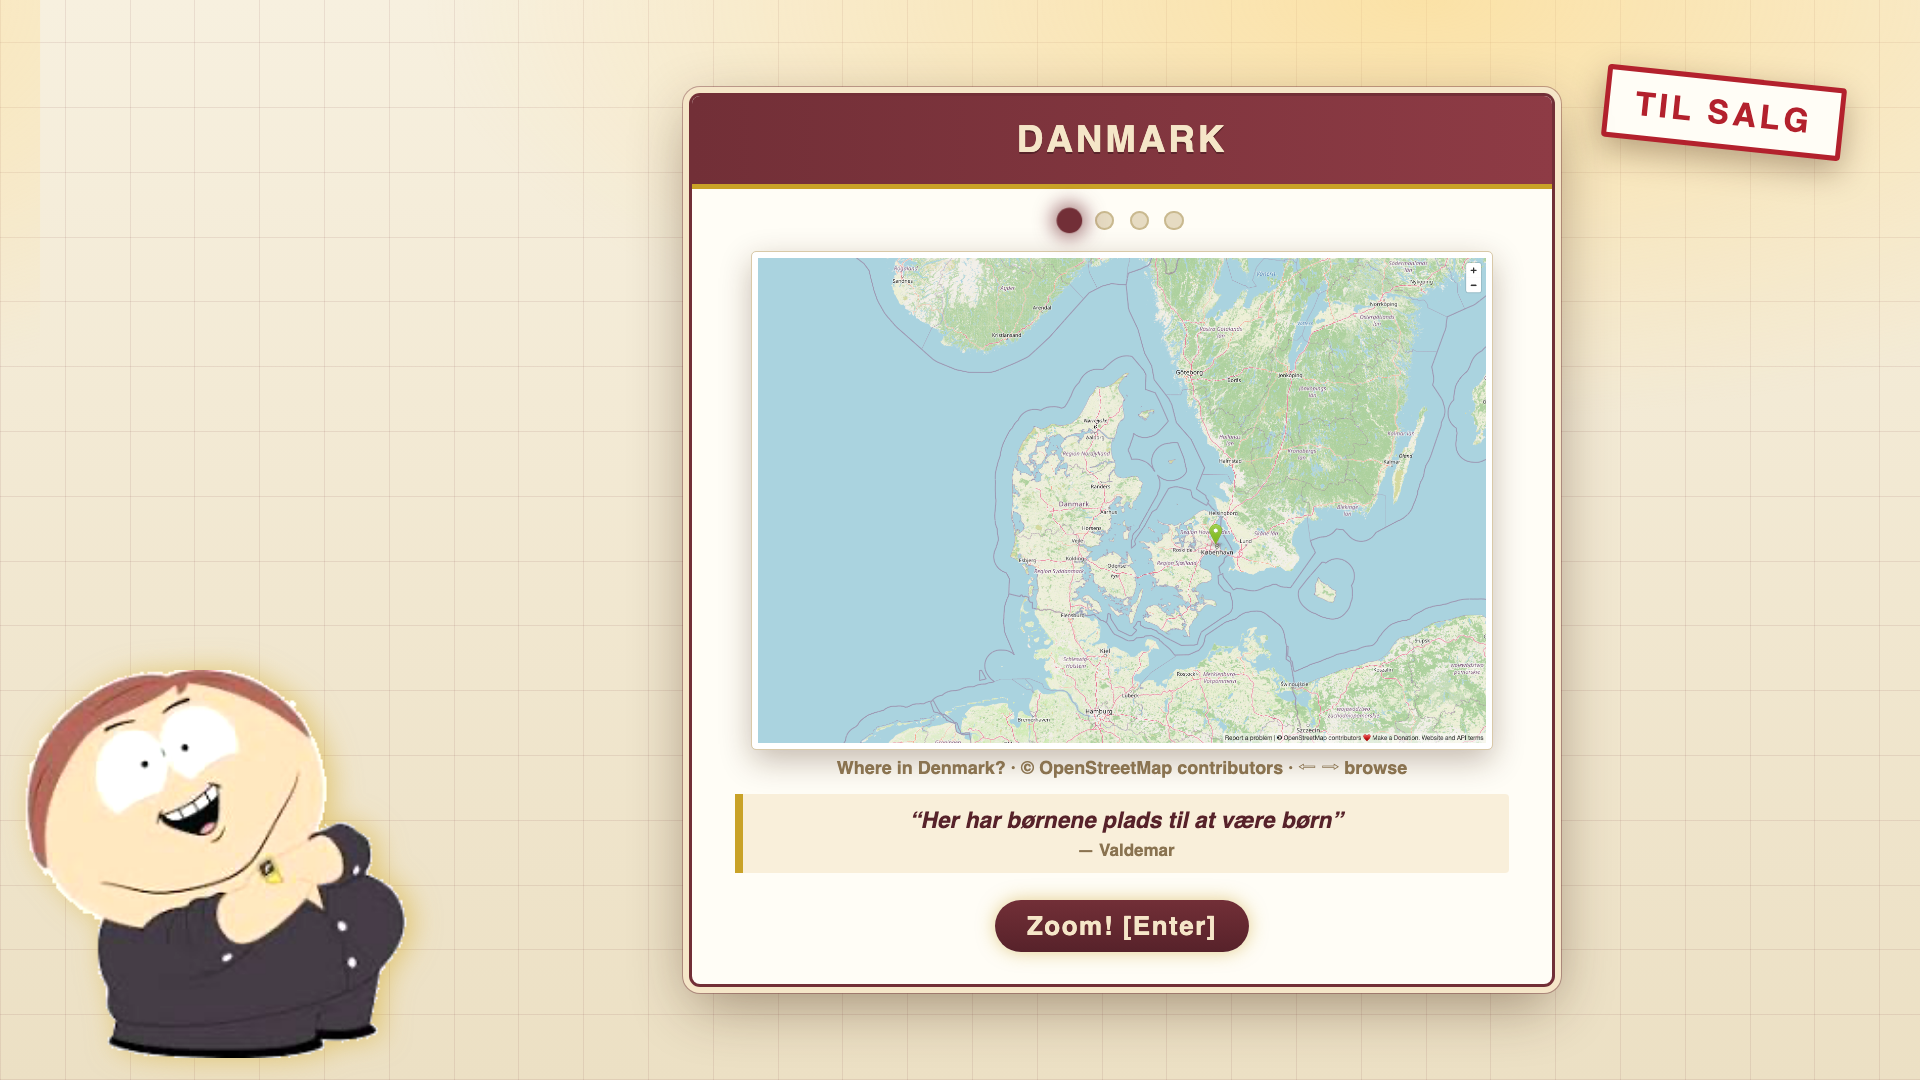
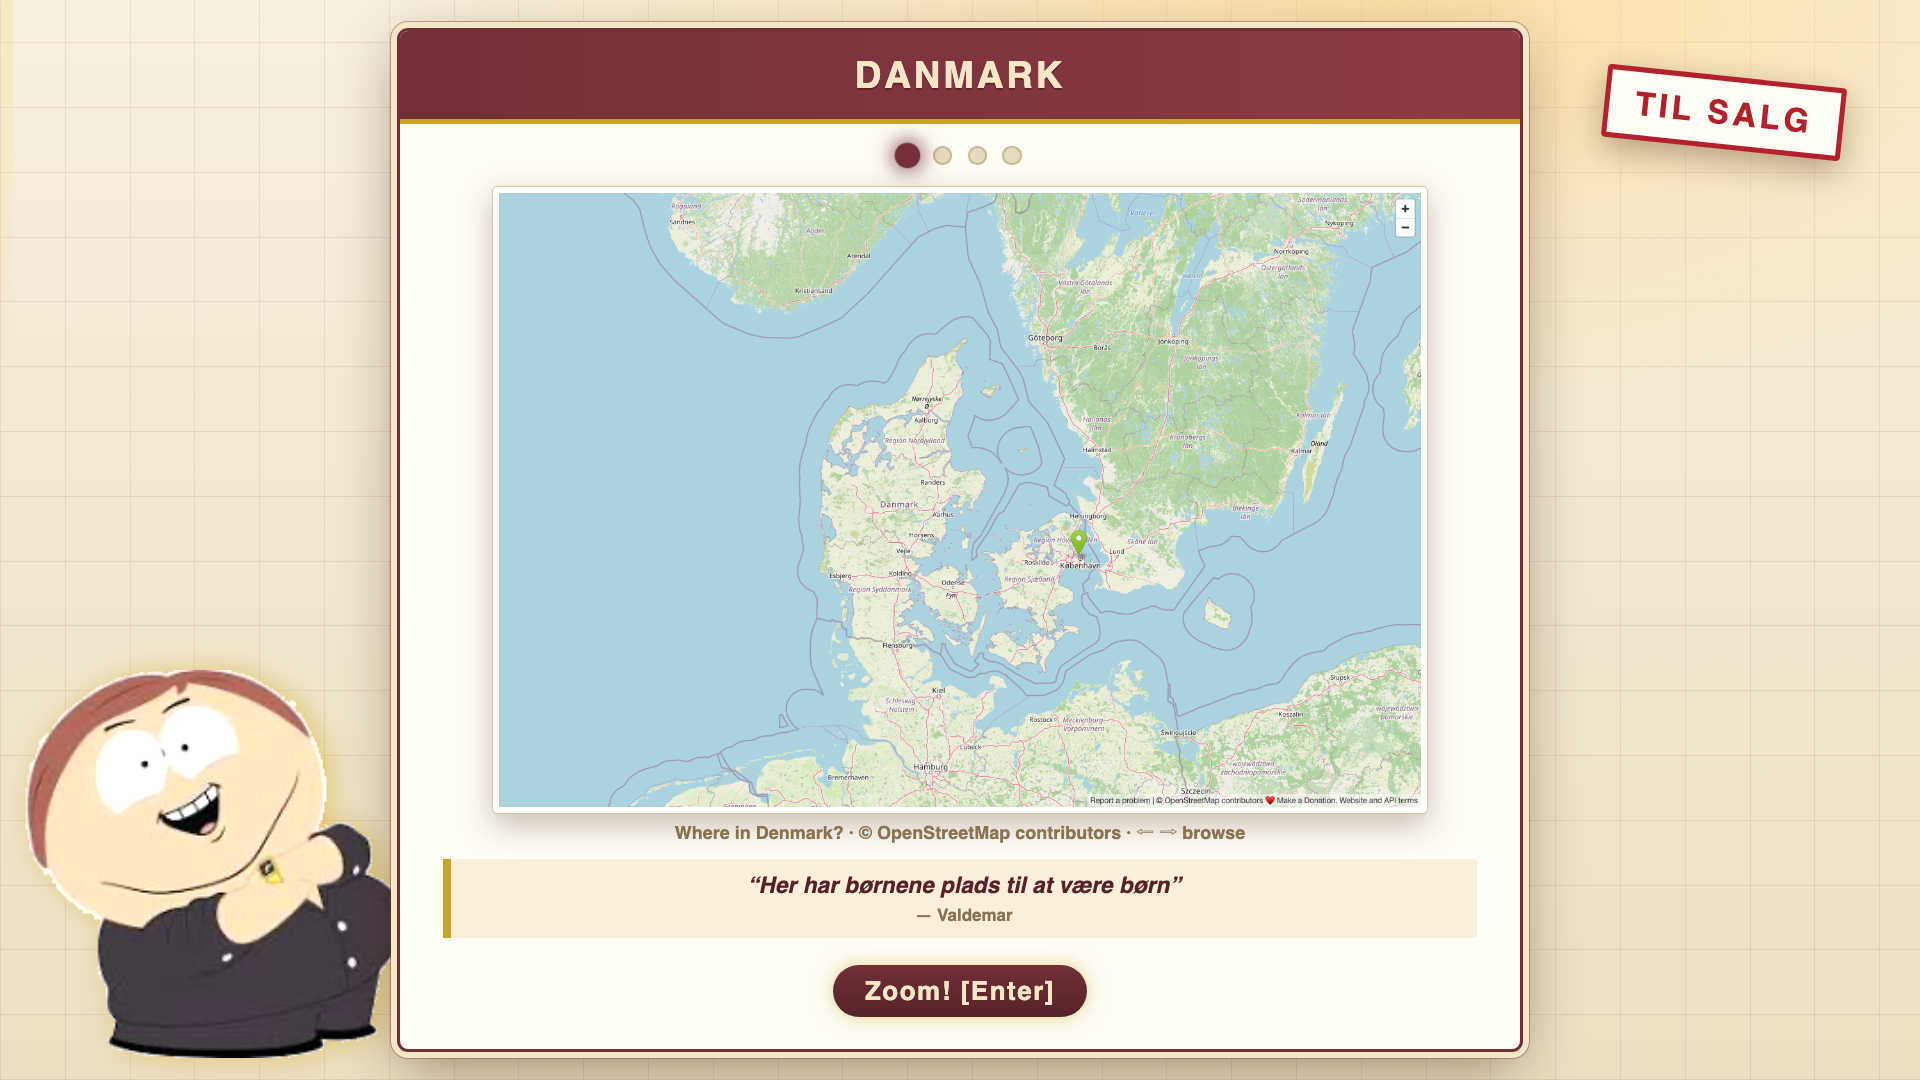
Let the two maps fill the screen.
The maps were capped like the photos and came out postcard-sized — but
street and town names ARE the guessing clue, so a box holding a map now
goes wide (via :has) and the map itself may stand 58vmin tall. Photos
keep the narrow prospekt box. Verified at 1920×1080: nothing clips.

diff --git a/js/tents/weinzelt/weinzelt.js b/js/tents/weinzelt/weinzelt.js
@@ -105,8 +105,8 @@ CHALLENGES.weinzelt = {
     // placeholder instead of a broken-image icon, and Enter still works.
     // NOTE: these paths are relative to index.html (they go into <img src>),
     // NOT to this file — unlike the url() in weinzelt.css. Don't "fix" it.
-    function photoHtml(dir, file, caption) {
-      return '<img class="visning-photo" src="' + dir + file + '" alt="">'
+    function photoHtml(dir, file, caption, extra) {
+      return '<img class="visning-photo' + (extra ? ' ' + extra : '') + '" src="' + dir + file + '" alt="">'
         + '<div class="visning-caption">' + caption + ' · ⇦ ⇨ browse</div>';
     }
     function armPhotoFallback(dir) {
@@ -175,27 +175,30 @@ CHALLENGES.weinzelt = {
       //    Enter walks forward too, and off the last page it starts the guess.
       function showGallery(p) {
         const last = b.photos.length + 1;
-        let title, file, caption, patter, confirmText;
+        let title, file, caption, patter, confirmText, extra;
         if (p < b.photos.length) {
           title = 'FOTO ' + (p + 1) + '/' + b.photos.length;
           file = b.photos[p];
           caption = 'Foto ' + (p + 1) + '/' + b.photos.length + ' · ' + b.address;
           patter = quote(droemAt(k * 7 + 1 + p));
           confirmText = 'Weiter! [Enter]';
+          extra = '';
         } else if (p === b.photos.length) {
           title = 'DANMARK';
           file = b.danmark;
           caption = 'Where in Denmark? · © OpenStreetMap contributors';
           patter = quote(droemAt(k * 7 + 1 + p));
           confirmText = 'Zoom! [Enter]';
+          extra = 'kort'; // maps get the roomier size — see weinzelt.css
         } else {
           title = 'BELIGGENHED';
           file = b.kort;
           caption = b.city + ' · © OpenStreetMap contributors';
           patter = quote(presAt(k * 3));
           confirmText = 'Weiter! [Enter]';
+          extra = 'kort';
         }
-        screen(k, title, photoHtml(DIR, file, caption) + patter, confirmText,
+        screen(k, title, photoHtml(DIR, file, caption, extra) + patter, confirmText,
           p < last ? function () { showGallery(p + 1); } : showGuess);
         armPhotoFallback(DIR);
         gallery = { pos: p, last: last, jump: showGallery };

diff --git a/js/tents/weinzelt/weinzelt.css b/js/tents/weinzelt/weinzelt.css
@@ -249,6 +249,20 @@
   margin-top: 0.6vmin;
 }
 
+/* the two maps get more room than the photos — you have to be able to READ
+   street and town names from the sofa, they are the guessing clue. The box
+   itself must widen too (its normal 860px cap is what shrinks the maps), so
+   a box holding a map goes wide and centered — Valdemar peeks out behind it. */
+.show-visning .visning-photo.kort {
+  max-height: 58vmin;
+}
+.show-visning #modal-box:has(.visning-photo.kort) {
+  max-width: min(80vw, 1120px);
+  width: min(80vw, 1120px);
+  margin-left: auto;
+  margin-right: auto;
+}
+
 /* the photo is missing (cloned without the images?) — a polite placeholder
    the same size, so Enter still walks through the visit (weinzelt.js swaps
    it in via the img's onerror). */
